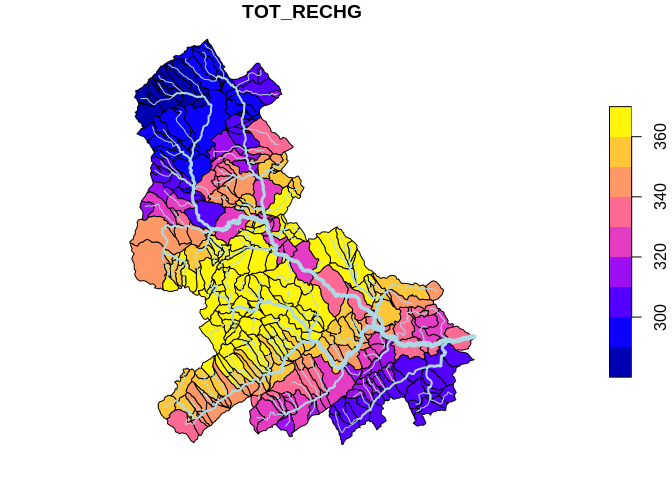
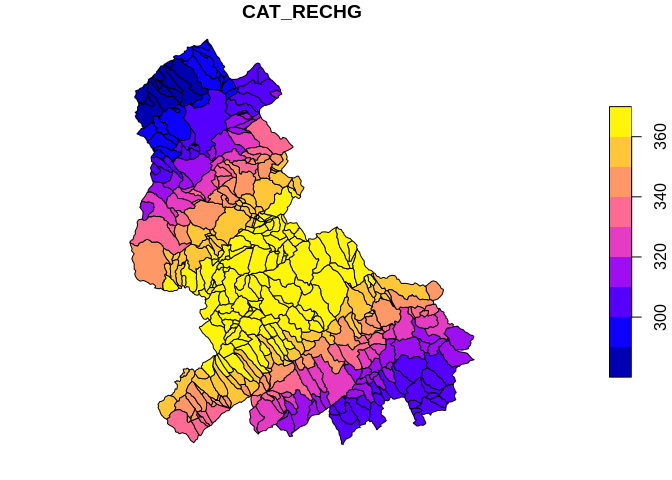
updates to r text and a rebuild

Changed region(s): [[0.1875, 0.125, 0.7188, 0.9062], [0.3438, 0.0, 0.4062, 0.0625]]

diff --git a/content/nldi_update.md b/content/nldi_update.md
@@ -267,12 +267,17 @@ we can plot the results.
     sm = plt.cm.ScalarMappable(cmap=cmap, norm=norm)
     fig.colorbar(sm, cax=cax)
 
-    ## <matplotlib.colorbar.Colorbar object at 0x7f9aaa167978>
+    ## <matplotlib.colorbar.Colorbar object at 0x7ff9298a4668>
 
     plt.show()
 
 R client Application
 --------------------
+
+First, we will retrieve some data and build a simple plot of our area of
+interest using
+[`plot_nhdplus()`](https://usgs-r.github.io/nhdplusTools/reference/plot_nhdplus.html)
+from [`nhdplusTools`](https://usgs-r.github.io/nhdplusTools/index.html).
 
     library(dplyr)
     library(sf)
@@ -289,6 +294,12 @@ R client Application
 <figure src='/static/nldi_update/unnamed-chunk-10-1.png' title='TODO' alt='TODO' >
 }}
 
+Now we can use
+[`discover_nldi_characteristics()`](https://usgs-r.github.io/nhdplusTools/reference/discover_nldi_characteristics.html)
+to find out what characteristics are available from the NLDI and get
+them for the outlet of our area of interest with
+[`get_nldi_characteristics()`](https://usgs-r.github.io/nhdplusTools/reference/get_nldi_characteristics.html)
+
     chars <- discover_nldi_characteristics()
 
     outlet_total <- get_nldi_characteristics(nldi_feature, type = "total")
@@ -298,7 +309,6 @@ R client Application
 
     outlet_total <- outlet_total %>%
       select(ID = characteristic_id, 
-                           Dataset = dataset_label,
                            Description = characteristic_description, 
                            Value = characteristic_value,
                            Units = units,
@@ -310,16 +320,14 @@ R client Application
 <table>
 <colgroup>
 <col width="4%" />
-<col width="2%" />
-<col width="65%" />
+<col width="66%" />
 <col width="1%" />
 <col width="5%" />
-<col width="20%" />
+<col width="21%" />
 </colgroup>
 <thead>
 <tr class="header">
 <th align="left">ID</th>
-<th align="left">Dataset</th>
 <th align="left">Description</th>
 <th align="left">Value</th>
 <th align="left">Units</th>
@@ -329,7 +337,6 @@ R client Application
 <tbody>
 <tr class="odd">
 <td align="left">TOT_BFI</td>
-<td align="left"></td>
 <td align="left">Base Flow Index (BFI), The BFI is a ratio of base flow to total streamflow, expressed as a percentage and ranging from 0 to 100. Base flow is the sustained, slowly varying component of streamflow, usually attributed to ground-water discharge to a stream.</td>
 <td align="left">46</td>
 <td align="left">percent</td>
@@ -337,7 +344,6 @@ R client Application
 </tr>
 <tr class="even">
 <td align="left">TOT_CONTACT</td>
-<td align="left"></td>
 <td align="left">Subsurface flow contact time index. The subsurface contact time index estimates the number of days that infiltrated water resides in the saturated subsurface zone of the basin before discharging into the stream.</td>
 <td align="left">137.57</td>
 <td align="left">days</td>
@@ -345,7 +351,6 @@ R client Application
 </tr>
 <tr class="odd">
 <td align="left">TOT_ET</td>
-<td align="left"></td>
 <td align="left">Mean-annual actual evapotranspiration (ET), estimated using regression equation of Sanford and Selnick (2013)</td>
 <td align="left">468</td>
 <td align="left">mm/year</td>
@@ -353,7 +358,6 @@ R client Application
 </tr>
 <tr class="even">
 <td align="left">TOT_EWT</td>
-<td align="left"></td>
 <td align="left">Average depth to water table relatice to the land surface(meters)</td>
 <td align="left">-21.62</td>
 <td align="left">meters</td>
@@ -361,7 +365,6 @@ R client Application
 </tr>
 <tr class="odd">
 <td align="left">TOT_HGA</td>
-<td align="left"></td>
 <td align="left">Percentage of Hydrologic Group A soil. -9999 denotes NODATA, usually water. Hydrologic group A soils have high infiltration rates. Soils are deep and well drained and, typically, have high sand and gravel content.</td>
 <td align="left">4.47</td>
 <td align="left">percent</td>
@@ -369,7 +372,6 @@ R client Application
 </tr>
 <tr class="even">
 <td align="left">TOT_HGAC</td>
-<td align="left"></td>
 <td align="left">Percentage of Hydrologic Group AC soil. -9999 denotes NODATA, usually water. Hydrologic group AC soils have group A characteristics (high infiltration rates) when artificially drained and have group C characteristics (slow infiltration rates) when not drained.</td>
 <td align="left">0</td>
 <td align="left">percent</td>
@@ -377,7 +379,6 @@ R client Application
 </tr>
 <tr class="odd">
 <td align="left">TOT_HGAD</td>
-<td align="left"></td>
 <td align="left">Percentage of Hydrologic Group AD soil. -9999 denotes NODATA, usually water. Hydrologic group AD soils have group A characteristics (high infiltration rates) when artificially drained and have group D characteristics (very slow infiltration rates) when not drained.</td>
 <td align="left">0</td>
 <td align="left">percent</td>
@@ -385,7 +386,6 @@ R client Application
 </tr>
 <tr class="even">
 <td align="left">TOT_HGB</td>
-<td align="left"></td>
 <td align="left">Percentage of Hydrologic Group B soil. -9999 denotes NODATA, usually water. Hydrologic group B soils have moderate infiltration rates. Soils are moderately deep, moderately well drained, and moderately coarse in texture.</td>
 <td align="left">14.2</td>
 <td align="left">percent</td>
@@ -393,7 +393,6 @@ R client Application
 </tr>
 <tr class="odd">
 <td align="left">TOT_HGBC</td>
-<td align="left"></td>
 <td align="left">Percentage of Hydrologic Group BC soil. -9999 denotes NODATA, usually water. Hydrologic group BC soils have group B characteristics (moderate infiltration rates) when artificially drained and have group C characteristics (slow infiltration rates) when not drained.</td>
 <td align="left">0</td>
 <td align="left">percent</td>
@@ -401,7 +400,6 @@ R client Application
 </tr>
 <tr class="even">
 <td align="left">TOT_HGBD</td>
-<td align="left"></td>
 <td align="left">Percentage of Hydrologic Group BD soil. -9999 denotes NODATA, usually water. Hydrologic group BD soils have group B characteristics (moderate infiltration rates) when artificially drained and have group D characteristics (very slow infiltration rates) when not drained.</td>
 <td align="left">0</td>
 <td align="left">percent</td>
@@ -409,7 +407,6 @@ R client Application
 </tr>
 <tr class="odd">
 <td align="left">TOT_HGC</td>
-<td align="left"></td>
 <td align="left">Percentage of Hydrologic Group C soil. -9999 denotes NODATA, usually water. Hydrologic group C soils have slow soil infiltration rates. The soil profiles include layers impeding downward movement of water and, typically, have moderately fine or fine texture.</td>
 <td align="left">41.66</td>
 <td align="left">percent</td>
@@ -417,7 +414,6 @@ R client Application
 </tr>
 <tr class="even">
 <td align="left">TOT_HGCD</td>
-<td align="left"></td>
 <td align="left">Percentage of Hydrologic Group CD soil. -9999 denotes NODATA, usually water. Hydrologic group CD soils have group C characteristics (slow infiltration rates) when artificially drained and have group D characteristics (very slow infiltration rates) when not drained.</td>
 <td align="left">16.84</td>
 <td align="left">percent</td>
@@ -425,7 +421,6 @@ R client Application
 </tr>
 <tr class="odd">
 <td align="left">TOT_HGD</td>
-<td align="left"></td>
 <td align="left">Percentage of Hydrologic Group D soil. -9999 denotes NODATA, usually water. Hydrologic group D soils have very slow infiltration rates. Soils are clayey, have a high water table, or have a shallow impervious layer.</td>
 <td align="left">22.83</td>
 <td align="left">percent</td>
@@ -433,7 +428,6 @@ R client Application
 </tr>
 <tr class="even">
 <td align="left">TOT_HGVAR</td>
-<td align="left"></td>
 <td align="left">Percentage of Hydrologic Group VAR soil. -9999 denotes NODATA, usually water. Hydrologic group VAR soils have variable drainage characteristics.</td>
 <td align="left">0</td>
 <td align="left">percent</td>
@@ -441,7 +435,6 @@ R client Application
 </tr>
 <tr class="odd">
 <td align="left">TOT_IEOF</td>
-<td align="left"></td>
 <td align="left">Percentage of Horton overland flow as a percent</td>
 <td align="left">2.29</td>
 <td align="left">percent</td>
@@ -449,7 +442,6 @@ R client Application
 </tr>
 <tr class="even">
 <td align="left">TOT_OLSON_PERM</td>
-<td align="left"></td>
 <td align="left">Rock hydraulic conductivity (10^-6 m/s).</td>
 <td align="left">0.12</td>
 <td align="left">10^-6 m/s</td>
@@ -457,7 +449,6 @@ R client Application
 </tr>
 <tr class="odd">
 <td align="left">TOT_PEST219</td>
-<td align="left"></td>
 <td align="left">Estimate of agricultural pesticide application (219 types), kg/sq km, from Census of Ag 1997, based on county-wide sales and percent agricultural land cover in watershed</td>
 <td align="left">2.32</td>
 <td align="left">kg/sqkm</td>
@@ -465,7 +456,6 @@ R client Application
 </tr>
 <tr class="even">
 <td align="left">TOT_PET</td>
-<td align="left"></td>
 <td align="left">Mean-annual potential evapotranspiration (PET), estimated using the Hamon (1961) equation.</td>
 <td align="left">512.18</td>
 <td align="left">mm/year</td>
@@ -473,7 +463,6 @@ R client Application
 </tr>
 <tr class="odd">
 <td align="left">TOT_PPT7100_ANN</td>
-<td align="left"></td>
 <td align="left">Mean annual precip (mm) for the watershed, from 800m PRISM data. 30 years period of record 1971-2000.</td>
 <td align="left">1180.7</td>
 <td align="left">mm/year</td>
@@ -481,7 +470,6 @@ R client Application
 </tr>
 <tr class="even">
 <td align="left">TOT_RECHG</td>
-<td align="left"></td>
 <td align="left">Mean annual natural ground-water recharge in millimeters per year</td>
 <td align="left">336.26</td>
 <td align="left">mm/yr</td>
@@ -489,7 +477,6 @@ R client Application
 </tr>
 <tr class="odd">
 <td align="left">TOT_RH</td>
-<td align="left"></td>
 <td align="left">Watershed average relative humidity (percent), from 2km PRISM, derived from 30 years of record (1961-1990).</td>
 <td align="left">68.48</td>
 <td align="left">percent</td>
@@ -497,7 +484,6 @@ R client Application
 </tr>
 <tr class="even">
 <td align="left">TOT_ROCKTYPE_100</td>
-<td align="left"></td>
 <td align="left">Estimated percent of catchment that is underlain by the Principal Aquifer rock type, Unconsolidated sand and gravel aquifers.</td>
 <td align="left">0</td>
 <td align="left">percent</td>
@@ -505,7 +491,6 @@ R client Application
 </tr>
 <tr class="odd">
 <td align="left">TOT_ROCKTYPE_200</td>
-<td align="left"></td>
 <td align="left">Estimated percent of catchment that is underlain by the Principal Aquifer rock type, Semiconsolidated sand aquifers.</td>
 <td align="left">0</td>
 <td align="left">percent</td>
@@ -513,7 +498,6 @@ R client Application
 </tr>
 <tr class="even">
 <td align="left">TOT_ROCKTYPE_300</td>
-<td align="left"></td>
 <td align="left">Estimated percent of catchment that is underlain by the Principal Aquifer rock type, Sandstone aquifers.</td>
 <td align="left">0</td>
 <td align="left">percent</td>
@@ -521,7 +505,6 @@ R client Application
 </tr>
 <tr class="odd">
 <td align="left">TOT_ROCKTYPE_400</td>
-<td align="left"></td>
 <td align="left">Estimated percent of catchment that is underlain by the Principal Aquifer rock type, Carbonate-rock aquifers.</td>
 <td align="left">0</td>
 <td align="left">percent</td>
@@ -529,7 +512,6 @@ R client Application
 </tr>
 <tr class="even">
 <td align="left">TOT_ROCKTYPE_500</td>
-<td align="left"></td>
 <td align="left">Estimated percent of catchment that is underlain by the Principal Aquifer rock type, Sandstone and carbonate-rock aquifers.</td>
 <td align="left">0</td>
 <td align="left">percent</td>
@@ -537,7 +519,6 @@ R client Application
 </tr>
 <tr class="odd">
 <td align="left">TOT_ROCKTYPE_600</td>
-<td align="left"></td>
 <td align="left">Estimated percent of catchment that is underlain by the Principal Aquifer rock type, Igneous and metamorphic-rock aquifers.</td>
 <td align="left">0</td>
 <td align="left">percent</td>
@@ -545,7 +526,6 @@ R client Application
 </tr>
 <tr class="even">
 <td align="left">TOT_ROCKTYPE_999</td>
-<td align="left"></td>
 <td align="left">Estimated percent of catchment that is underlain by the Principal Aquifer rock type, Other rocks.</td>
 <td align="left">100</td>
 <td align="left">percent</td>
@@ -553,7 +533,6 @@ R client Application
 </tr>
 <tr class="odd">
 <td align="left">TOT_RUN7100</td>
-<td align="left"></td>
 <td align="left">Estimated 30-year (1971-2000) average annual runoff in millimeters per year</td>
 <td align="left">738.61</td>
 <td align="left">millimeters per year</td>
@@ -561,7 +540,6 @@ R client Application
 </tr>
 <tr class="even">
 <td align="left">TOT_SATOF</td>
-<td align="left"></td>
 <td align="left">Percentage of Dunne overland flow as a percent</td>
 <td align="left">3.3</td>
 <td align="left">percent</td>
@@ -569,7 +547,6 @@ R client Application
 </tr>
 <tr class="odd">
 <td align="left">TOT_TAV7100_ANN</td>
-<td align="left"></td>
 <td align="left">Watershed average of monthly air temperature (degrees C) from 800m PRISM, derived from 30 years of record (1971-2000).</td>
 <td align="left">4.13</td>
 <td align="left">degrees C</td>
@@ -577,7 +554,6 @@ R client Application
 </tr>
 <tr class="even">
 <td align="left">TOT_TWI</td>
-<td align="left"></td>
 <td align="left">Topographic wetness index, ln(a/S); where ln is the natural log, a is the upslope area per unit contour length and S is the slope at that point. See <a href="http://ks.water.usgs.gov/Kansas/pubs/reports/wrir.99-4242.html" class="uri">http://ks.water.usgs.gov/Kansas/pubs/reports/wrir.99-4242.html</a> and Wolock and McCabe, 1995 for more detail</td>
 <td align="left">11.55</td>
 <td align="left">ln(m)</td>
@@ -585,7 +561,6 @@ R client Application
 </tr>
 <tr class="odd">
 <td align="left">TOT_WB5100_ANN</td>
-<td align="left"></td>
 <td align="left">unknown</td>
 <td align="left">643.08</td>
 <td align="left">unknown</td>
@@ -593,6 +568,14 @@ R client Application
 </tr>
 </tbody>
 </table>
+
+Now, for the sake of demonstration, we will run
+get\_nldi\_characteristics for all the catchments in our area of
+interest.
+
+\*\*NOTE: This will be slow for large collections of characteristics.
+For large collections, download the characteristics [directly from the
+source.](https://www.sciencebase.gov/catalog/item/5669a79ee4b08895842a1d47)
 
     characteristic <- "CAT_RECHG"
     tot_char <- "TOT_RECHG"
@@ -614,8 +597,15 @@ R client Application
     plot(cat[characteristic])
 
 {{
-<figure src='/static/nldi_update/unnamed-chunk-11-1.png' title='TODO' alt='TODO' >
+<figure src='/static/nldi_update/unnamed-chunk-12-1.png' title='TODO' alt='TODO' >
 }}
+
+Now that we have the local characteristics, we can run a downstream
+accumulation with an internal `nhdplusTools` function
+`accumulate_downstream()`. The plot at the bottom here shows the
+accumulated characteristic and the output values atthe bottom show that
+we get the same answer from locally-calculated accumulation or the total
+accumulated pre-calculated characteristic! So that's good.
 
     net <- prepare_nhdplus(data$flowline, 0, 0, 0, purge_non_dendritic = FALSE)
 
@@ -650,7 +640,7 @@ R client Application
     plot(st_geometry(data$flowline), add = TRUE, lwd = data$flowline$StreamOrde, col = "lightblue")
 
 {{
-<figure src='/static/nldi_update/unnamed-chunk-12-1.png' title='TODO' alt='TODO' >
+<figure src='/static/nldi_update/unnamed-chunk-13-1.png' title='TODO' alt='TODO' >
 }}
 
     filter(outlet_total, ID == tot_char)$Value
